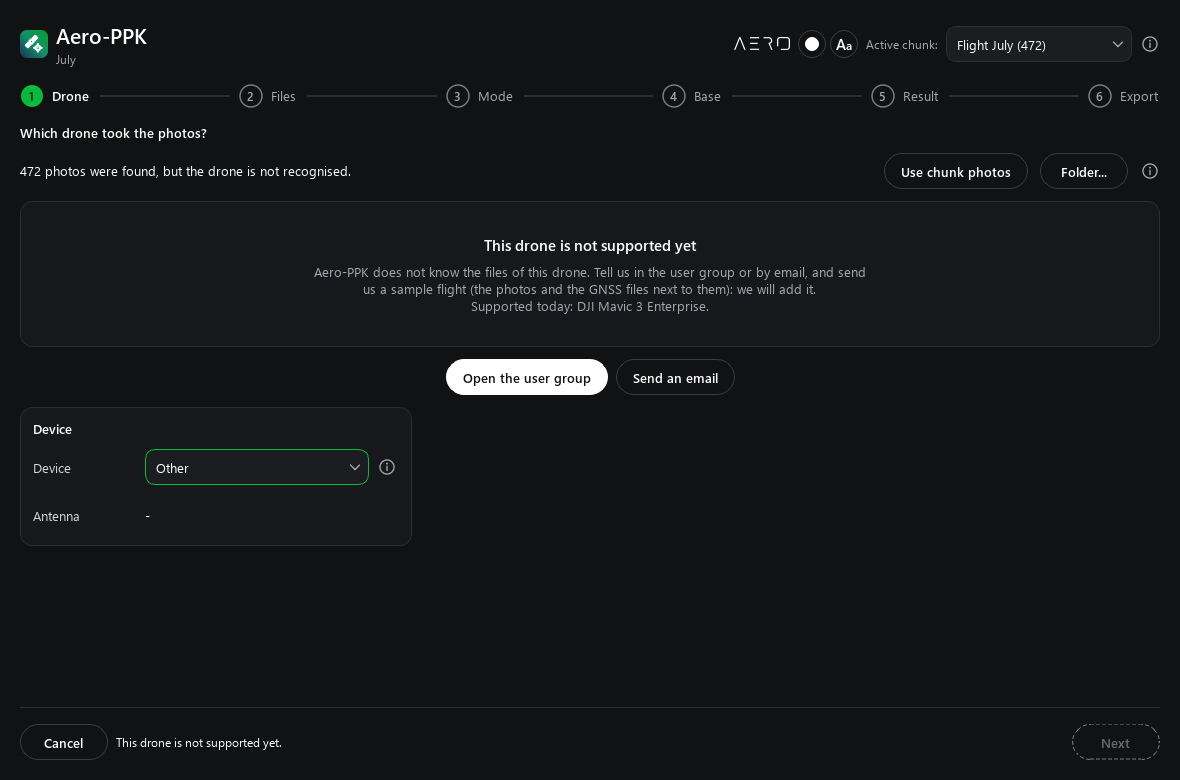
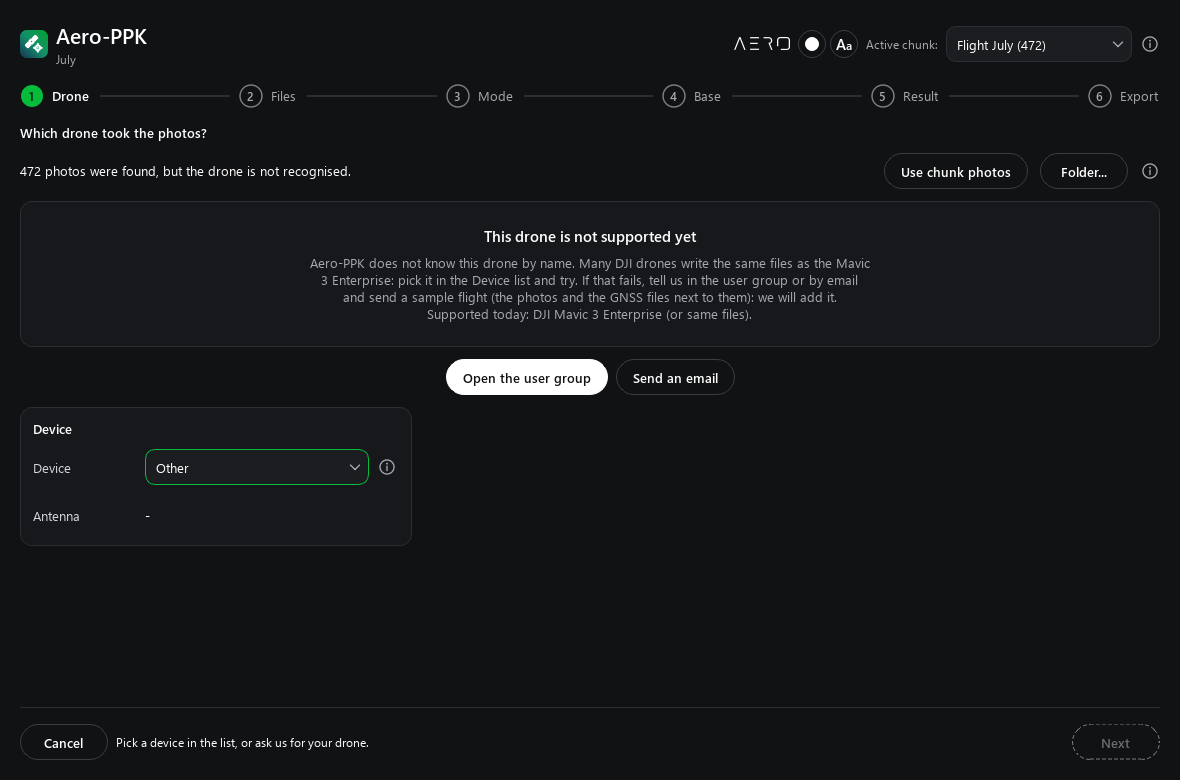
Release: Aero-GCP, Aero-Space, Aero-Exports, Aero-L3, Aero-PPK

Changed region(s): [[0.2746, 0.2769, 0.7322, 0.4308], [0.122, 0.9231, 0.2136, 0.9538]]

diff --git a/aerotools/lang/en.py b/aerotools/lang/en.py
@@ -1279,9 +1279,9 @@ TEXTS = {
     "aeroppk.drone.unread_only": "{n} {n|photo was|photos were} found, but the drone is not recognised.",
     "aeroppk.drone.antenna_unknown": "Not known",
     "aeroppk.drone.unsupported": "This drone is not supported yet",
-    "aeroppk.drone.unsupported_text": "Aero-PPK does not know the files of this drone. Tell us in the user group or by email, and send us a sample flight (the photos and the GNSS files next to them): we will add it.",
+    "aeroppk.drone.unsupported_text": "Aero-PPK does not know this drone by name. Many DJI drones write the same files as the Mavic 3 Enterprise: pick it in the Device list and try. If that fails, tell us in the user group or by email and send a sample flight (the photos and the GNSS files next to them): we will add it.",
     "aeroppk.drone.supported": "Supported today: {names}.",
-    "aeroppk.drone.unsupported_hint": "This drone is not supported yet.",
+    "aeroppk.drone.unsupported_hint": "Pick a device in the list, or ask us for your drone.",
     "aeroppk.drone.group": "Open the user group",
     "aeroppk.drone.mail": "Send an email",
     "aeroppk.drone.mail_subject": "Aero-PPK: drone not supported",

diff --git a/tests/test_aeroppk_wizard_logic.py b/tests/test_aeroppk_wizard_logic.py
@@ -353,6 +353,15 @@ def test_the_unsupported_state_is_for_photos_no_reader_knows_and_the_supported_n
     assert not st.unsupported()
 
 
+def test_picking_a_reader_by_hand_leaves_the_unsupported_state(tmp_path):
+    st = make_state(tmp_path)
+    st.device_id = devices.OTHER
+    assert st.unsupported()
+    st.device_id = drones.READERS[0].id                                          # the user picks the reader of the Mavic 3 Enterprise
+    assert not st.unsupported() and st.antenna_state() == "known" and st.can_next(state.DRONE)
+    assert "same files" in drones.READERS[0].name
+
+
 def two_flights(tmp_path):
     """A state with two flights read (two copies of the synthetic flight), the second one with a gap when `with_obs` is False."""
     st = state.WizardState()

diff --git a/aerotools/tools/aeroppk/drones/dji_m3e.py b/aerotools/tools/aeroppk/drones/dji_m3e.py
@@ -26,7 +26,7 @@ from .. import gnsstime
 from .base import FlightFiles, Need, PhotoEvent
 
 READER_ID = "dji_m3e"
-NAME = "DJI Mavic 3 Enterprise"
+NAME = "DJI Mavic 3 Enterprise (or same files)"
 
 # A mission planner may append a waypoint tag after the camera letter: DJI_<time>_<n>_V_point12.JPG
 PHOTO = re.compile(r"^DJI_(\d{14})_(\d{4})_([A-Z])(?:_[A-Za-z0-9-]+)*\.(jpg|jpeg|dng)$", re.IGNORECASE)

diff --git a/docs/tools/aero-ppk.md b/docs/tools/aero-ppk.md
@@ -43,9 +43,10 @@ The **Device** card shows the drone that was detected, and whether its antenna i
 nothing else is asked. When a device does not tell where its antenna is, an **Above camera** field appears: type the height of the
 antenna above the camera, in metres.
 
-DJI Mavic 3 Enterprise is the only drone supported today. With photos of another drone the step shows a message with two buttons,
-**Open the user group** and **Send an email**. Tell us the model and send a sample flight (the photos and the GNSS files next to them):
-that is what we need to add a drone.
+The Mavic 3 Enterprise is the only drone tested today. A folder with the same files (`DJI_<date>_<number>_<letter>.JPG`, `_Timestamp.MRK`,
+`_PPKOBS.obs`) is read the same way and is named *DJI Mavic 3 Enterprise (or same files)*. With photos that do not match, the step shows a
+message and keeps the **Device** card: pick that entry and try. If it fails, **Open the user group** or **Send an email**, tell us the
+model and send a sample flight (the photos and the GNSS files next to them): that is what we need to add a drone.
 
 ![Step 1 with the photos of a drone that is not supported](../images/aero-ppk/02-drone-unsupported.png)
 
@@ -182,7 +183,7 @@ were coarse.
 
 ## Limits
 
-- Only the DJI Mavic 3 Enterprise is supported today.
+- Only the DJI Mavic 3 Enterprise is tested today. Other drones that write the same files may work; the position is only as good as the antenna offset in the `.MRK`.
 - The tool needs the `.MRK`, `.obs` and `.nav` files of the drone. A flight without them cannot be computed.
 - A station may have no data for the day of the flight, or files the tool cannot read. The list says so: pick another station.
 - Very short flights give fewer photos to judge the result from: look at the counts and at the Details window before you trust it.
@@ -195,7 +196,7 @@ were coarse.
 |---|---|
 | **Aero-PPK** is missing from the **Aero** menu | It is not installed: **Aero > Install plugins...**, then **Install** on it. |
 | Aero-PPK does not open and NumPy is named as missing | Install NumPy from **Aero > Dependencies...**, then open Aero-PPK again. |
-| *This drone is not supported yet* | Only the Mavic 3 Enterprise is read today. Use **Open the user group** or **Send an email** and tell us the drone. |
+| *This drone is not supported yet* | Pick *DJI Mavic 3 Enterprise (or same files)* in the **Device** card and try. If it fails, use **Open the user group** or **Send an email** and tell us the drone. |
 | A flight says *Missing* in step 2 | Point to the file with **Browse...**. The `.MRK` and `.obs` files are needed. |
 | *No data from this station on the flight day* | Pick another station in the list or on the map, or widen the search radius. |
 | The result says *This result is not reliable* | Click **Try another base** and pick a station that is closer and records every second, or use your own base. Look at the Details window. |
